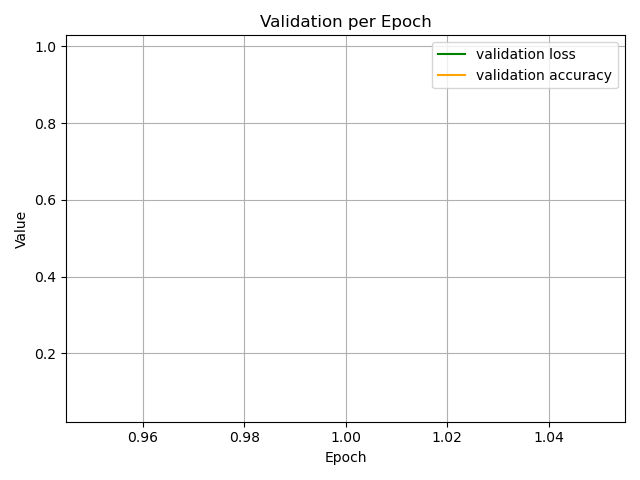
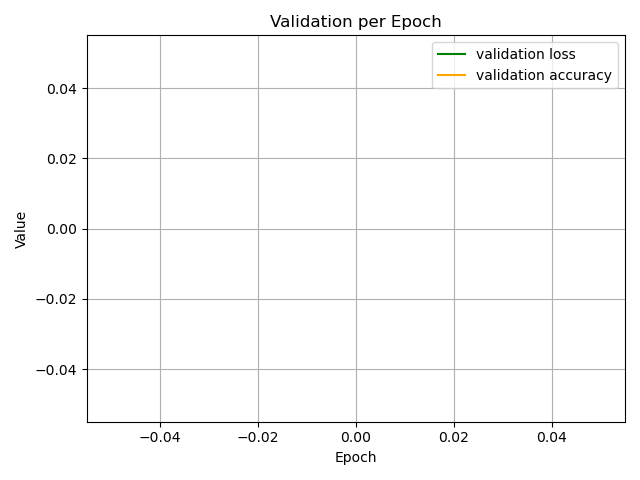
no more disk save

diff --git a/4_layer_final/python_4_hidden_layers.py b/4_layer_final/python_4_hidden_layers.py
@@ -1,5 +1,6 @@
 #spaghetti code my hhhheloved
 #i love making hyper complicated code that's barely worth any grade yayyy
+import io
 import cv2
 import time
 import numpy as np 
@@ -72,8 +73,9 @@ def paint(event):
 guide = Label(root, anchor="w", justify="left", text="Left Click Drag: Draw\nRight Click Drag: Erase\nMiddle Click: Clear Canvas\nS or Enter: Save and make prediction\nDraw the number on the center and not too big for the best result")
 guide.grid(row=1, column=0, sticky="w", padx=15)
 
-def save_image(event=None):
-    image.save("drawing.png")  # Save as PNG
+def image_to_array(event=None):
+    img_array = np.array(image.convert("L"))
+    return img_array
 
 #Neural Network Part
 rng = np.random.default_rng()
@@ -209,7 +211,7 @@ def backward_batch_norm(dout, cache):
 #weight5 = np.random.randn(hidden_4_size, output_size) * np.sqrt(2.0 / hidden_4_size)
 #bias5 = np.zeros((1, output_size))
 
-epochs = 1
+epochs =0 
 warmup_epochs = 1 
 batch_size = 128
 eta_start = 0.00001
@@ -460,8 +462,8 @@ def predict(x):
 #my sample
 def own_sample(event = None):
     global guess
-    save_image()
-    img = cv2.imread("drawing.png", cv2.IMREAD_GRAYSCALE)
+    img = image_to_array()
+    #img = cv2.imread("drawing.png", cv2.IMREAD_GRAYSCALE)
     img = cv2.resize(img, (28, 28))  # Ensure 28x28 size
     img = (img > 127).astype(np.float32)  # Apply thresholding (like training data)
     img = img.reshape(1, 28*28)  # Flatten to (1, 784)
